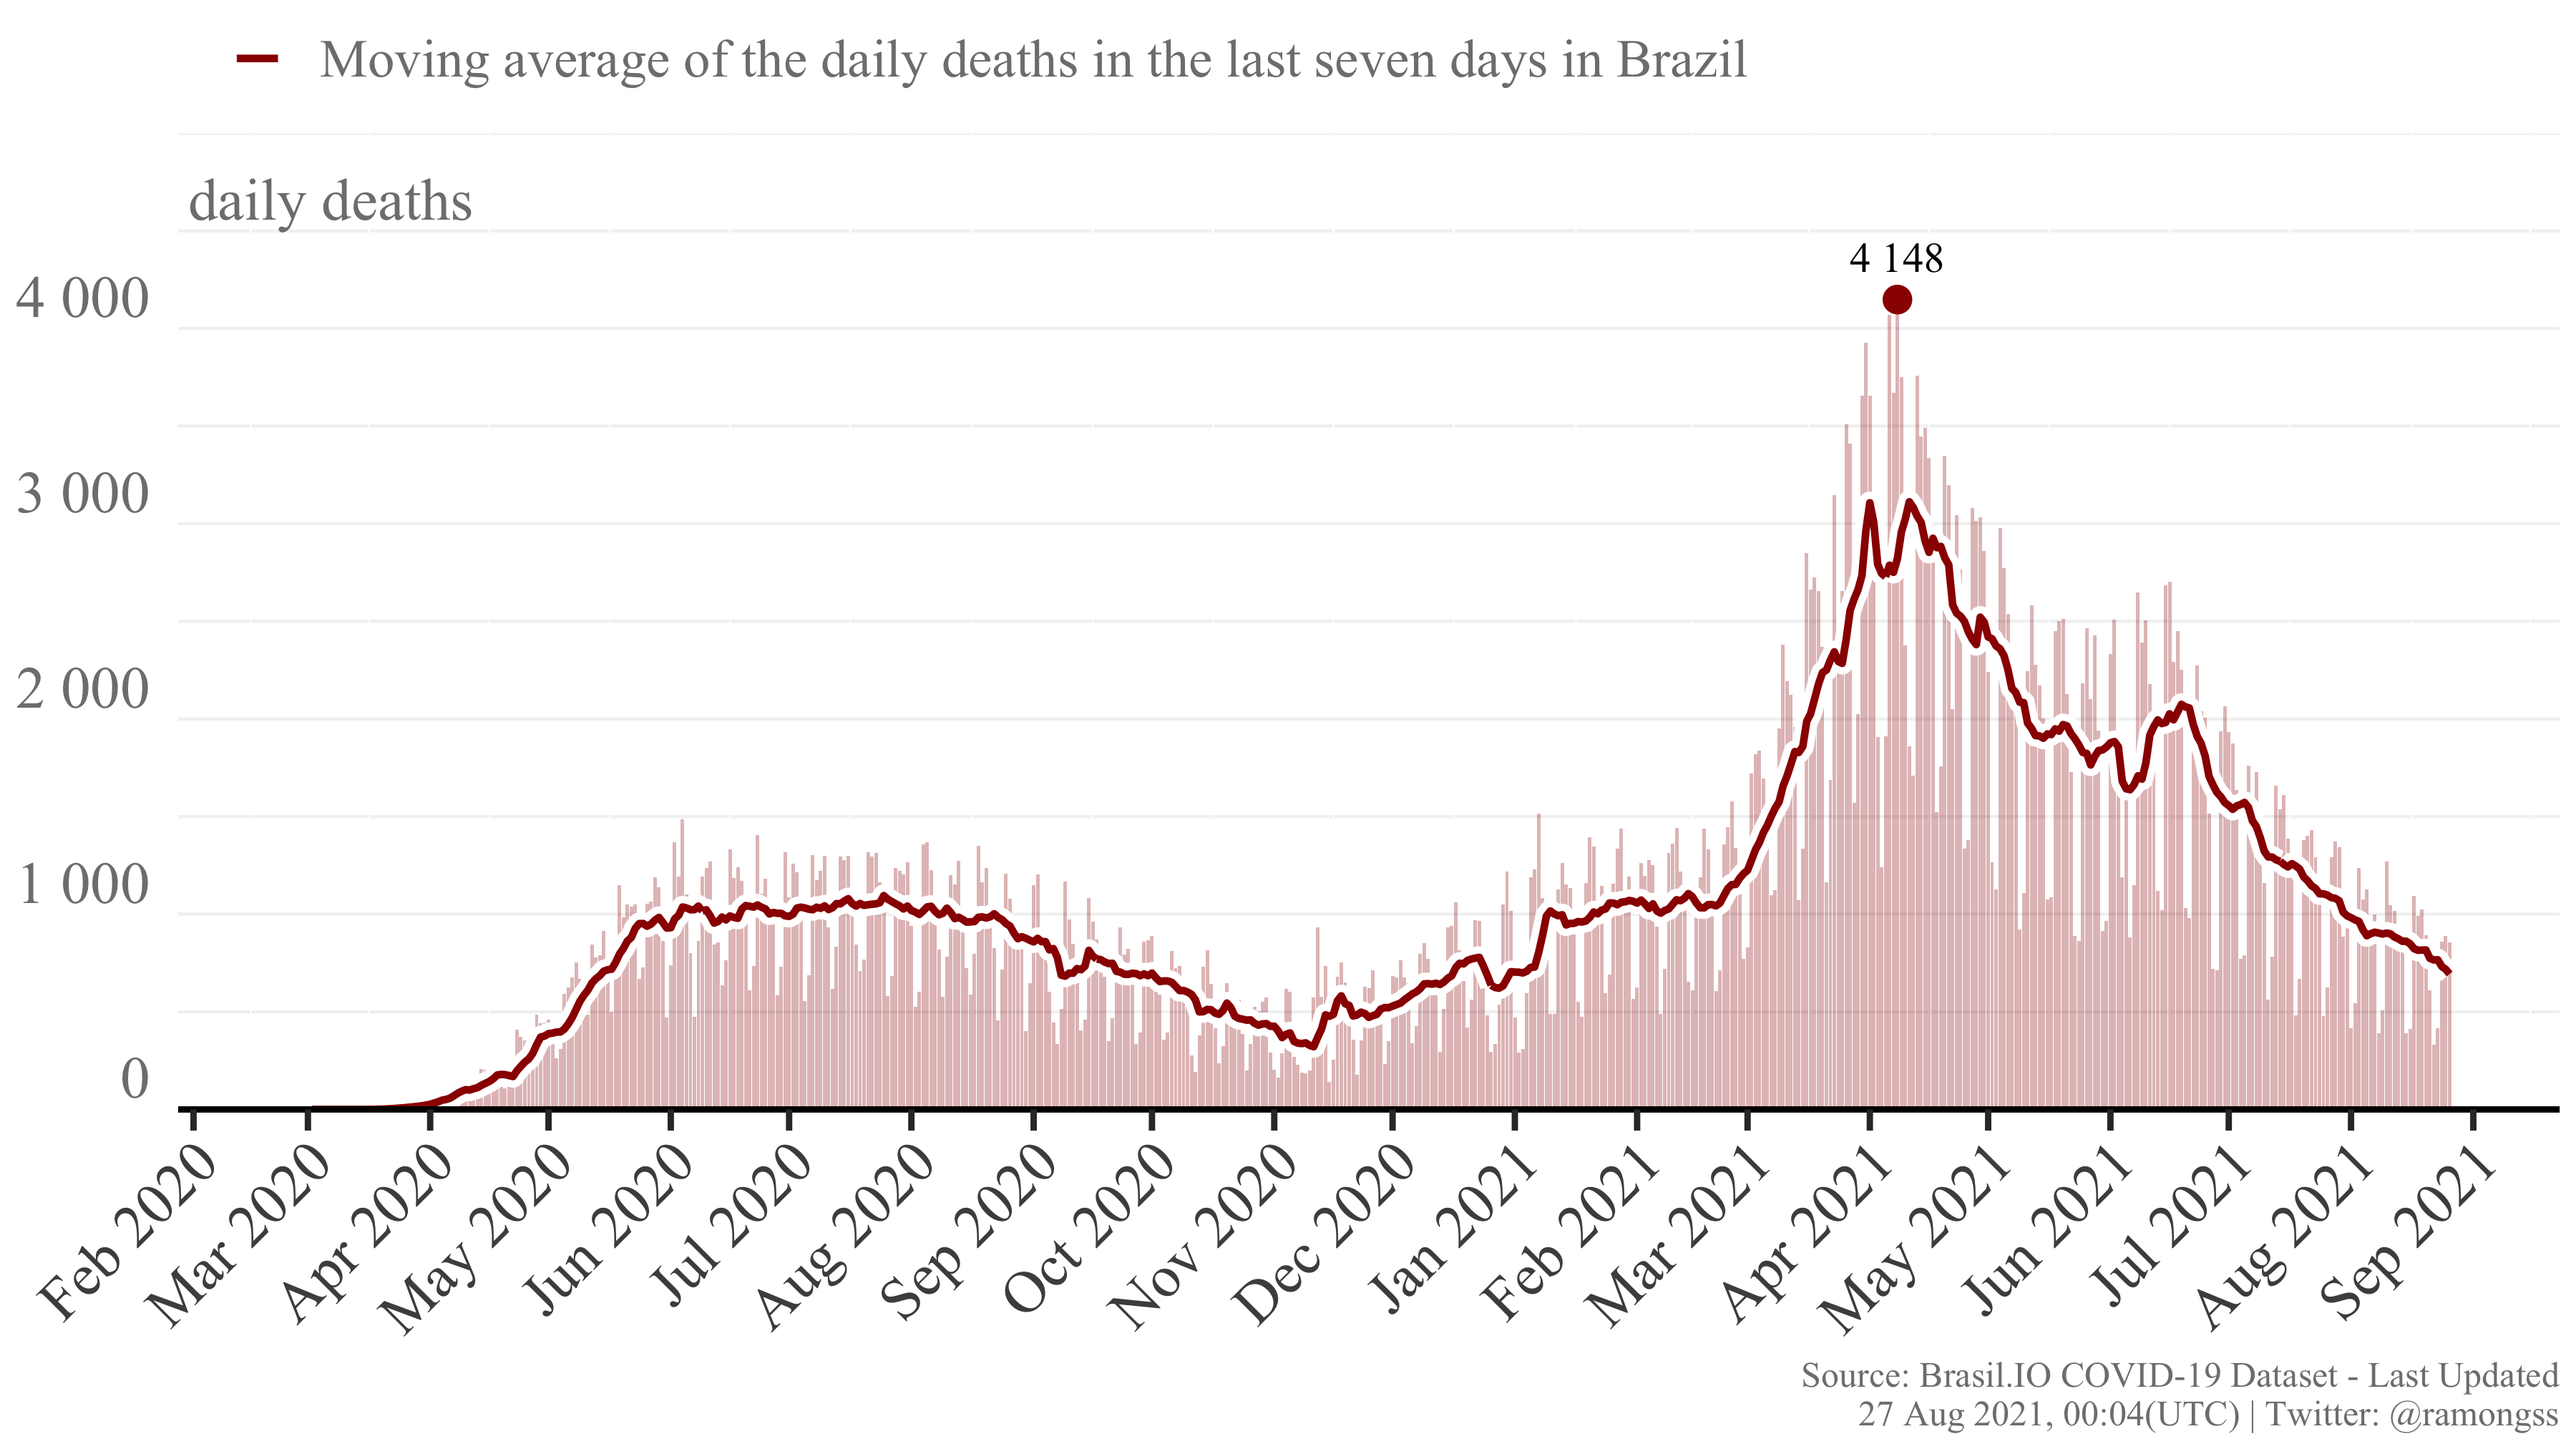
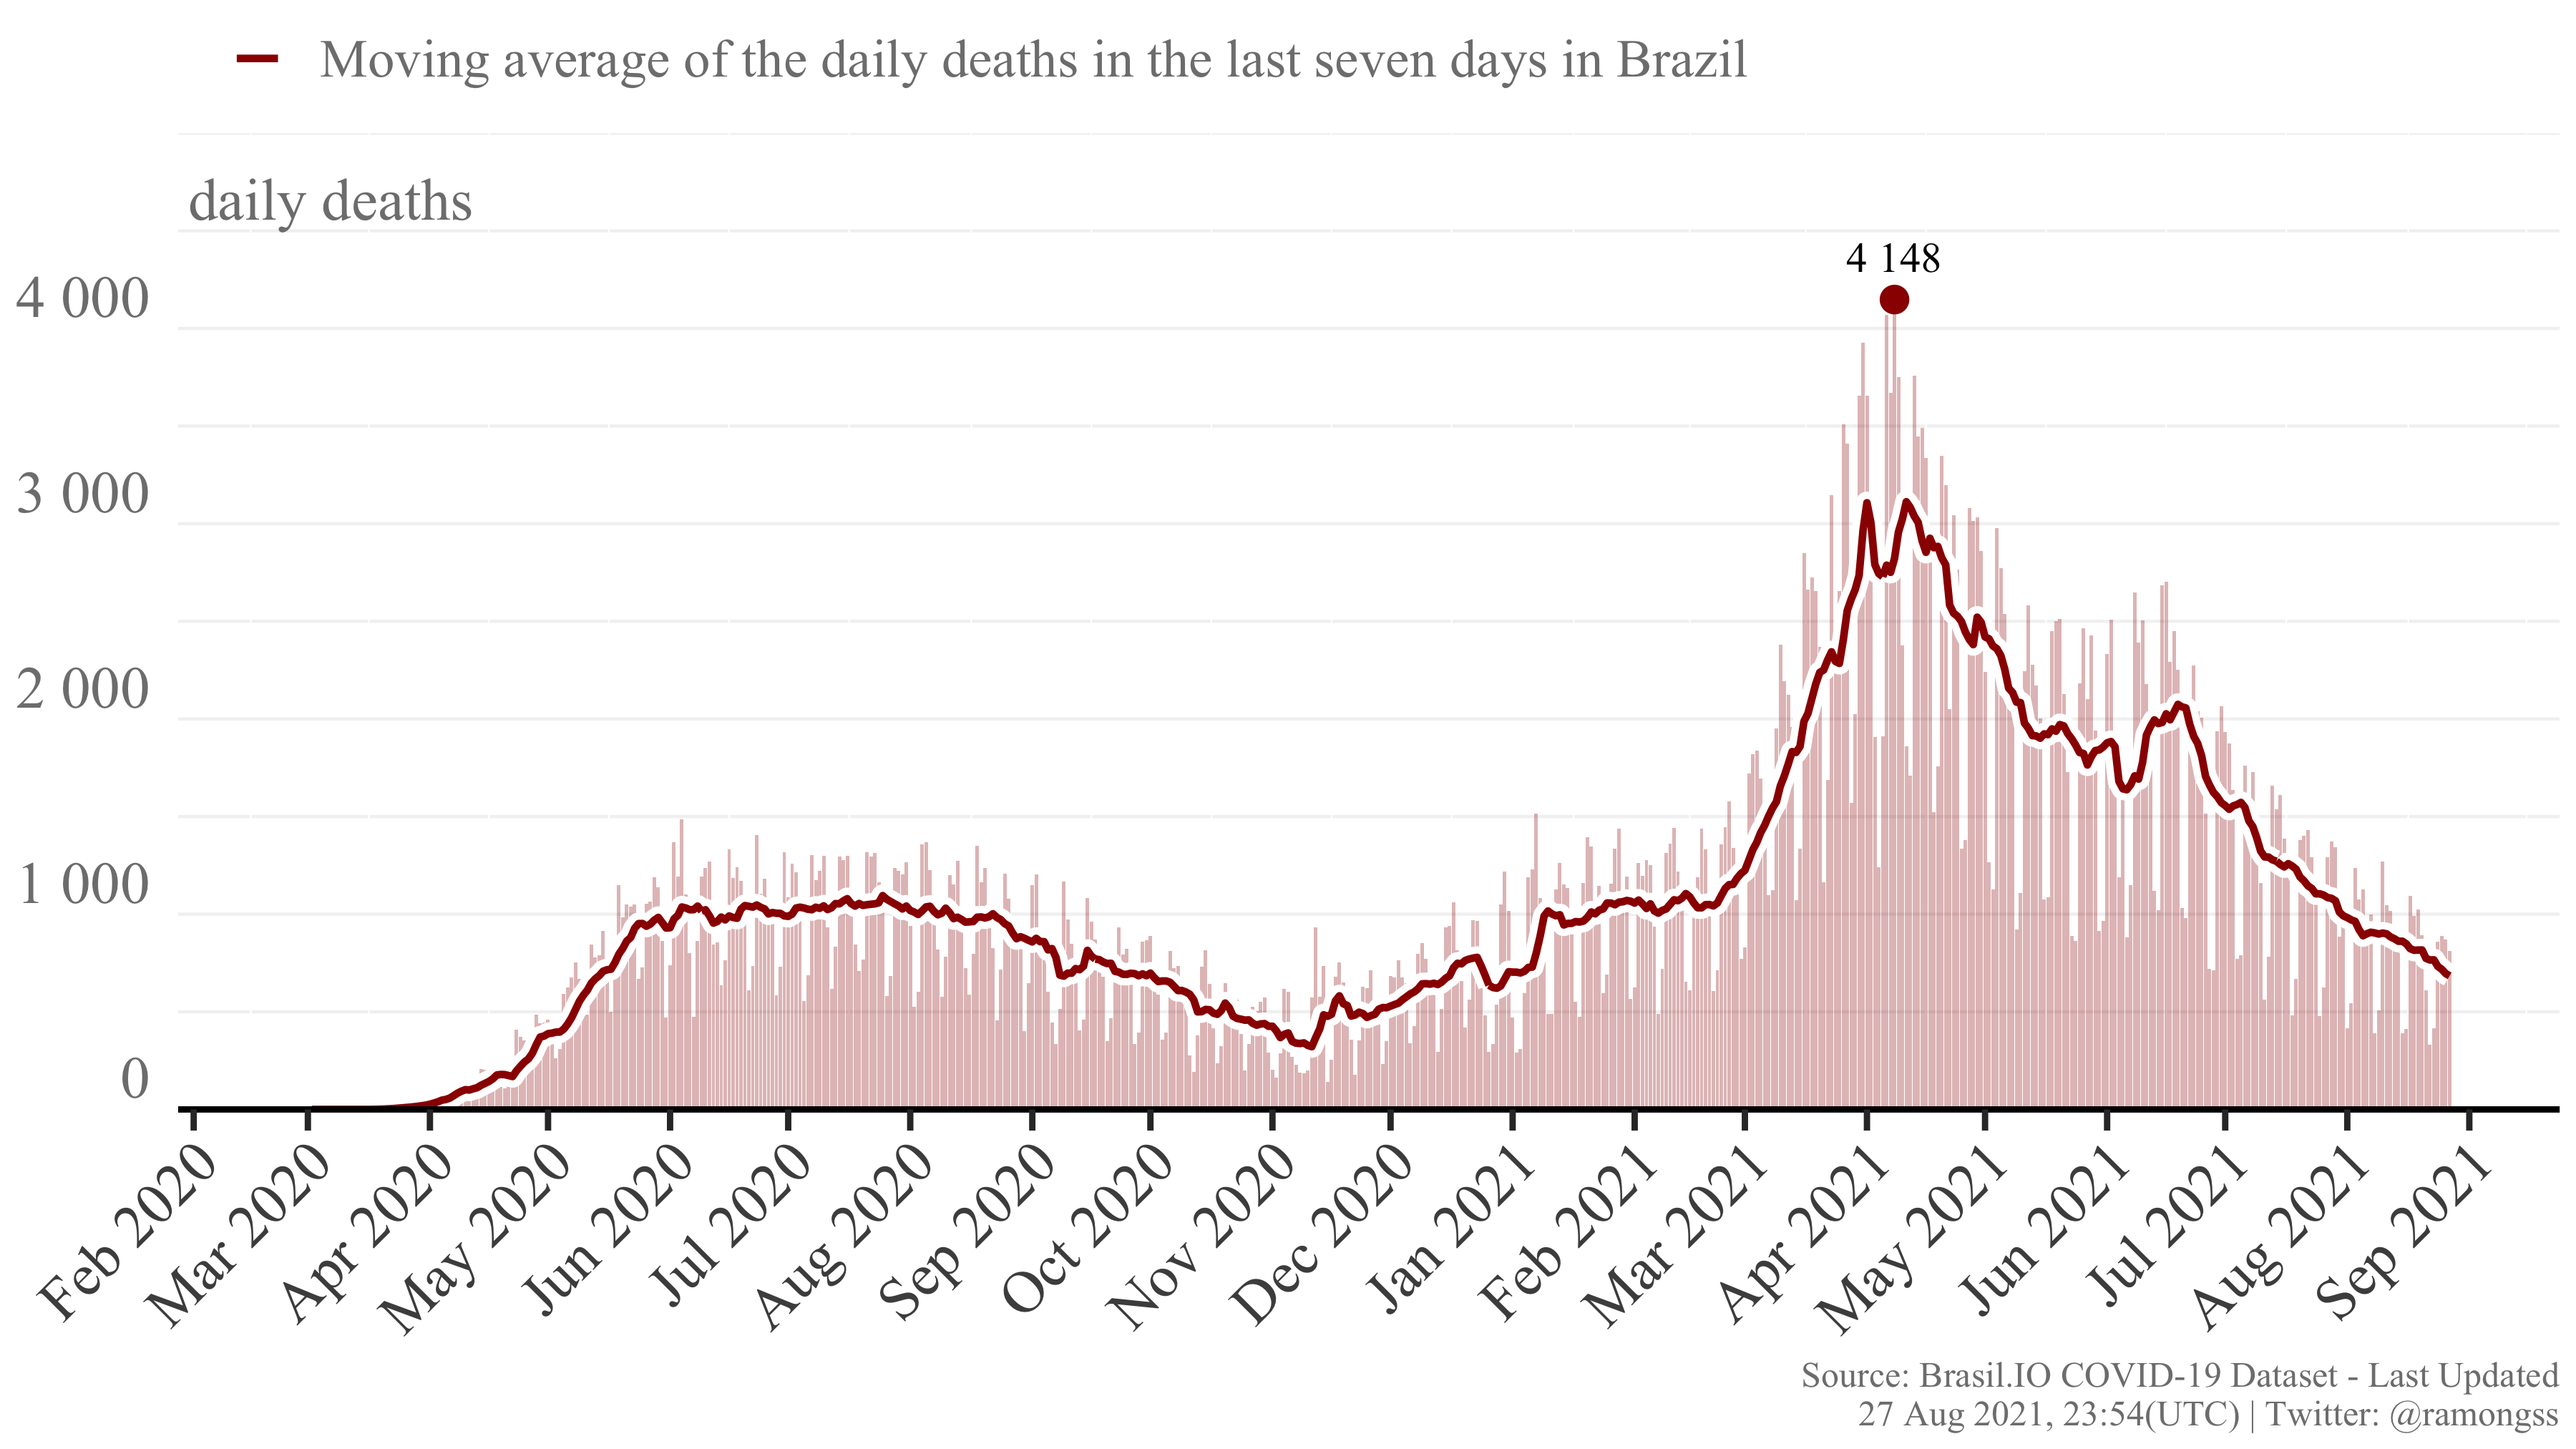
Re-build README.Rmd

diff --git a/README.md b/README.md
@@ -27,8 +27,8 @@ download_brasilio_table <- function(dataset = "covid19", table_name){
 
 ## COVID-19 Confirmed cases
 
-Currently, Brazil has a total of **20,682,794** confirmed cases at **26
-Aug, 2021**, with **30,134** new confirmed cases. The daily maximum
+Currently, Brazil has a total of **20,710,388** confirmed cases at **27
+Aug, 2021**, with **26,805** new confirmed cases. The daily maximum
 incidence was **124,248** confirmed cases at **22 Jun, 2021**. Here
 follows the Figure showing the confirmed case incidence as the bars, and
 the line as the moving average of the last 7 days.
@@ -37,8 +37,8 @@ the line as the moving average of the last 7 days.
 
 ## COVID-19 Deaths
 
-Currently, Brazil has a total of **577,823** deaths at **26 Aug, 2021**,
-with **854** new deaths. The daily maximum deaths incidence was
+Currently, Brazil has a total of **578,650** deaths at **27 Aug, 2021**,
+with **810** new deaths. The daily maximum deaths incidence was
 **4,148** deaths at **08 Apr, 2021**. Here follows the Figure showing
 the deaths incidence as the bars, and the line as the moving average of
 the last 7 days.
@@ -49,4 +49,4 @@ the last 7 days.
 
 This page is daily updated automatically using Github Actions.
 
-*Last update: 27 Aug 2021, 00:04 (UTC).*
+*Last update: 27 Aug 2021, 23:54 (UTC).*
